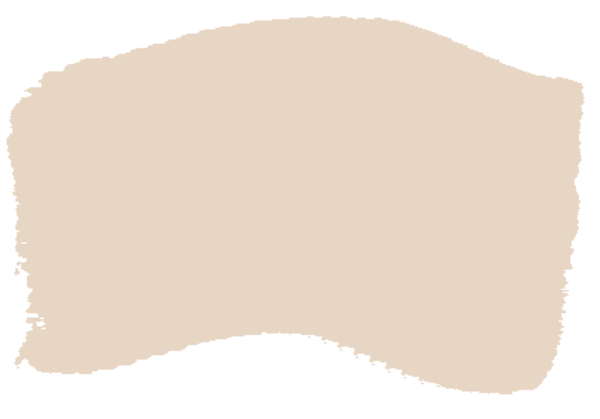
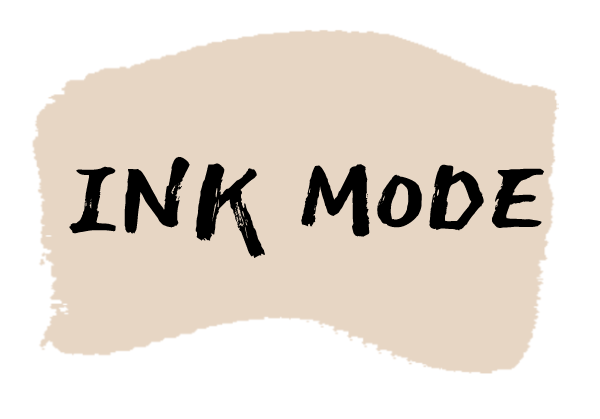
added 3-4 more sections

Changed region(s): [[0.0, 0.031, 0.99, 0.9618], [0.12, 0.3723, 0.45, 0.6205]]

diff --git a/index.html b/index.html
@@ -6,22 +6,22 @@
     <meta name="viewport" content="width=device-width, initial-scale=1.0">
     <title>DEPLACE MAISON</title>
     <link rel="stylesheet" href="style.css">
+    <link rel="preconnect" href="https://fonts.googleapis.com">
+<link rel="preconnect" href="https://fonts.gstatic.com" crossorigin>
+<link href="https://fonts.googleapis.com/css2?family=Anton&family=Oswald:wght@200;300;400;500;600;700&display=swap" rel="stylesheet">
 </head>
 <body>
     <nav>
         <h1 id="design-name">DEPLACE MAISON</h1>
         <span id="cart"></span>
       </nav>
-      <div id="logo-img"> INK
-        <img src="assets/brush.png" alt="">
-       
-      </div>
+      <img id="logo-img" src="assets/brush.png" alt="logo">
       
       <section id="first-section">
         <div class="grid-container">
       <div class="title one">SPRING,</div>
       <div class="title two">SUMMER</div>
-      <div class="tree">Coll 23.</div>
+      <div class="tree">23.</div>
       <div class="four img-showcase">
         <img src="assets/img1.jpeg" alt="img1">
       </div>
@@ -36,6 +36,87 @@
       <img src="assets/circle.svg" id="circle">
       <img src="assets/arrow.svg" id="arrow"></div>
       </section>
+
+      <section class="second-section">
+        test
+      </section>
+
+      <section class="third-section">
+        <div class="eleven">Who We Are</div>
+        <div class="about twelve">An independent brand of</div>
+        <div class="about thirteen">urban trekking shoes and accessories</div>
+        <div class="about forteen">that comes from a convergence of</div>
+        <div class="about fifteen">arts and personalities</div>
+      </section>
+
+
+    <section class="forth-section">
+        <div class="shoes-container">
+        <div class="shoes-showcase">
+            <img src="assets/shoe1.jpeg" alt="" class="shoe-img">
+            <img src="assets/unisex.svg" alt="unisex-tag" class="unisex">
+            <div class="season">SS/20</div>
+            <div class="shoes-name">CACTUS</div>
+            <div class="old-price">$543 CAD</div>
+            <div class="price">$350 CAD</div>
+        </div>
+        <div class="shoes-showcase">
+            <img src="assets/shoe1.jpeg" alt="" class="shoe-img">
+            <img src="assets/unisex.svg" alt="unisex-tag" class="unisex">
+            <div class="season">SS/20</div>
+            <div class="shoes-name">CACTUS</div>
+            <div class="old-price">$398 CAD</div>
+            <div class="price">$299 CAD</div>
+        </div>
+        <div class="shoes-showcase">
+            <img src="assets/shoe1.jpeg" alt="" class="shoe-img">
+            <img src="assets/unisex.svg" alt="unisex-tag" class="unisex">
+            <div class="season">SS/20</div>
+            <div class="shoes-name">CACTUS</div>
+            <div class="old-price">$370 CAD</div>
+            <div class="price">$198 CAD</div>
+        </div>
+        <div class="shoes-showcase">
+            <img src="assets/shoe1.jpeg" alt="" class="shoe-img">
+            <img src="assets/unisex.svg" alt="unisex-tag" class="unisex">
+            <div class="season">SS/20</div>
+            <div class="shoes-name">CACTUS</div>
+            <div class="old-price">$300 CAD</div>
+            <div class="price">$150 CAD</div>
+        </div>
+        <div class="shoes-showcase">
+            <img src="assets/shoe1.jpeg" alt="" class="shoe-img">
+            <img src="assets/unisex.svg" alt="unisex-tag" class="unisex">
+            <div class="season">SS/20</div>
+            <div class="shoes-name">CACTUS</div>
+            <div class="old-price">$200 CAD</div>
+            <div class="price">$120 CAD</div>
+        </div></div>
+        <div class="shop-all">
+            SHOP ALL
+          <img src="assets/circle.svg" id="circle2">
+          <img src="assets/arrow.svg" id="arrow2"></div>
+    </section>  
+
+    <section class="fifth-section">
+        <svg xmlns="http://www.w3.org/2000/svg" xmlns:xlink="http://www.w3.org/1999/xlink" version="1.1" id="Layer_1" x="0px" y="0px" viewBox="0 0 100 100" style="enable-background:new 0 0 100 100;" xml:space="preserve">
+            <path style="fill:none;stroke:#e7d6c4;" d="M61.8,14.5c0,0.3,0,0.5,0.1,0.8C56.6,25.1,44.8,48,26.4,84c-3.7,1.3-6.1,2-7,2  c-0.9,0.1-2-0.2-3.3-0.9c-0.3,0-2,0.4-5.3,1.2c-3.3,0.8-5.8,1.4-7.5,2.1C3.1,85,2.9,83.2,2.9,83c2.2-12.2,5.9-24.3,11.2-36.2  c2.4-5.3,6.3-13.1,11.7-23.5c2.9-5.8,6.3-10.8,10.1-15c3.2,1.1,7.6,2,13.3,2.7c5.7,0.7,9.6,1.4,11.7,2  C61.4,13.8,61.7,14.3,61.8,14.5z M72.8,12.9c0.8-0.1,4.4-0.1,11,0c6.5,0,11.6,0.4,15.3,1.2l-0.9,3.5c-4.6,10.1-8.8,18.8-12.3,26.3  c-1.3,3.2-3.4,7.6-6.1,13.3c-2.8,5.7-4.5,9.2-5.2,10.6c-0.9,1.9-1.5,3.4-2,4.8c-2.8,7.1-7.3,10.7-13.5,10.6  c-0.3-0.8-0.9-2.2-1.9-4.5c0-0.2-0.2-0.5-0.4-0.7c0,0-4.4,0.8-5.5,3.5c0,0.3-0.5,1.6-1.6,4c-3.2-2.1-5-3.2-5.2-3.5  c0-6.7,3.5-18.3,10.3-35C61.6,30.3,67.6,19,72.8,12.9z"/>
+            </svg>
+
+            <div class="quote active">
+                <h2 class="reviewer">Martin Matt</h2>
+                <p class="review">Lorem ipsum dolor sit amet consectetur adipisicing elit. Voluptates qui illum est debitis omnis, ad eius sunt consectetur nesciunt perspiciatis harum eligendi alias quisquam. Dolorum dolor fugiat vero ad pariatur.</p>
+            </div>
+            <div class="quote">
+                <h2 class="reviewer"></h2>
+                <p class="review"></p>
+            </div>
+            <div class="quote">
+                <h2 class="reviewer"></h2>
+                <p class="review"></p>
+            </div>
+
+    </section>
 
 <script src="main.js"></script>
 </body>

diff --git a/style.css b/style.css
@@ -2,16 +2,25 @@
     box-sizing: border-box;
 }
 
-@import url('https://fonts.googleapis.com/css2?family=Oswald:wght@300;400;500;600;700&display=swap');
+@import url('https://fonts.googleapis.com/css2?family=Anton&family=Oswald:wght@200;300;400;500;600;700&display=swap');
+
 
 body{
+    width: 100vw;
     background-color: #141414;  
     margin: 0;
     padding: 0;
     font-family: 'Oswald', sans-serif;
     color:  #fcf9ee;
+    -ms-overflow-style: none;
+    scrollbar-width: none;
     }
   
+body::-webkit-scrollbar {
+    display: none;
+  }
+
+
     nav{
       width: 100vw;
       height: 13vh;
@@ -23,7 +32,7 @@ body{
     }
   
     #design-name{
-      transform: rotate(270deg) translate3D(-5vw, -7vh,0); 
+      transform: rotate(270deg) translate3D(-10vw, -5vh,0); 
       font-size: 1.5vw;
       letter-spacing: -0.1vw;
       font-weight: 300;
@@ -31,15 +40,9 @@ body{
   
     #logo-img{
     margin-left: 50%;
-    transform: translateY(-12vh);
+    transform: translateY(-8vh);
+    width: 4vw;
     }
-
-    #logo-img img{
-        position: absolute;
-        width: 3vw;
-        transform: translate(-5vw, 1vh);
-    }
-
     #first-section{
         width: 65vw;
         margin-left:16vw;
@@ -74,11 +77,11 @@ body{
   .tree{
     grid-column: 13;
     grid-row: 2;
-     font-size:5vw;
-     text-align: center;
-     letter-spacing: -0.3vw;
-     line-height: 8vh;
-     padding-top: 3vh;
+    font-size:5vw;
+    text-align: center;
+    letter-spacing: -0.3vw;
+    line-height: 8vh;
+    padding-top: 3vh;
   }
 
   .img-showcase img{
@@ -123,16 +126,176 @@ body{
   }
 
   .ten{
-    transform: translate3d(54vw, 143vh, 0);
+    transform: translate3d(54vw, 160vh, 0);
     font-size: 1.8vw;
     font-weight: 100;
   }
 
   #circle{
     transform: translate3d(10vw, -8vh, 0);
+    width: 5vw;
+
   }
 
   #arrow{
     transform: translate3d(11vw, -17vh, 0);
     width: 3vw;
+  }
+
+  .second-section{
+    font-size: 2vw;
+    color: #141414;
+    margin-top: 40vh;
+    margin-bottom: 20vh;
+    width: 100vw;
+    height: 11vh;
+    background-color: #ddc92a;
+    display: flex;
+    align-items: center;
+  }
+
+  .third-section{
+    width: 80vw;
+    margin-left:25vw;
+    padding-top:18vh;
+    padding-bottom: 20vh;
+    justify-content: end;
+    display: grid;
+    grid-template-columns: repeat(10, 8vw);
+    grid-template-rows: repeat(4, 8vh);
+  }
+
+  .about{
+    font-size: 4vw;
+
+  }
+
+  .eleven{
+    font-weight: 100;
+    padding-top: 2vh;
+    font-size: 1.6vw;
+    text-decoration: underline;
+    grid-column: 1/3;
+    grid-row: 1;
+  }
+
+  .twelve{
+    grid-row: 1;
+    grid-column: 3/10;
+  }
+
+  .thirteen{
+    grid-row: 2;
+    grid-column: 1/10;
+  }
+
+  .forteen{
+    grid-row: 3;
+    grid-column: 1/10;
+  }
+
+  .fifteen{
+    grid-row: 4;
+    grid-column: 1/10;
+  }
+  
+  .forth-section{
+
+    column-gap: 4vw;
+    width: 200vw;
+    padding-top: 5vh;
+    padding-bottom: 35vh;
+    transform: translateX(20vw);
+  }
+
+  .shoes-container{
+    display: flex;
+    overflow: hidden;  
+    column-gap: 4vw; 
+    width: 200vw;
+  }
+  
+  .shoes-showcase{
+    display: flex;
+    flex-direction: column;
+    align-items: center;
+    justify-content: center;
+    width: 25vw;
+    height: 70vh;
+    background-color: #e7d6c4;
+    overflow: hidden;   
+    padding-bottom: 7vh; 
+  }
+
+  .shoe-img{
+    width: 22vw;
+    margin-bottom: -8vh;
+  }
+
+  .unisex{
+    width: 6vw;
+  }
+
+  .season{
+    color: #141414;
+    font-size: 0.8vw;
+    font-weight: 500;
+    padding-top: 1.5vh;
+  }
+
+  .shoes-name{
+    font-size: 5vw;
+    color: #141414;
+    font-weight: 400;
+    letter-spacing: -0.1vw;
+    font-family: 'Anton', sans-serif;
+}
+
+.old-price{
+    text-decoration: line-through;
+    font-size: 1vw;
+    letter-spacing: 0.5vw;
+    color: #141414;
+}
+
+.price{
+    color: #141414;
+    font-size: 3vw;
+
+}
+
+
+.shop-all{
+    transform: translate3d(50vw, 10vh, 0);
+    font-size: 2vw;
+    font-weight: 100;
+  }
+
+
+#arrow2{
+    width: 3vw;
+    transform: translate3d(-1.3vw, 1vh,0);
+
+}
+
+#circle2{
+    width: 5vw;
+    transform: translate3d(3vw, 3vh,0);
+  }
+
+  .fifth-section{
+
+  }
+
+  .fifth-section svg{
+    width: 7vw;
+    transform: translate3d(50vw, -10vh, 0);
+  }
+
+  .quote{
+    display: none;
+  }
+
+  .active{
+    display: flex;
   }
